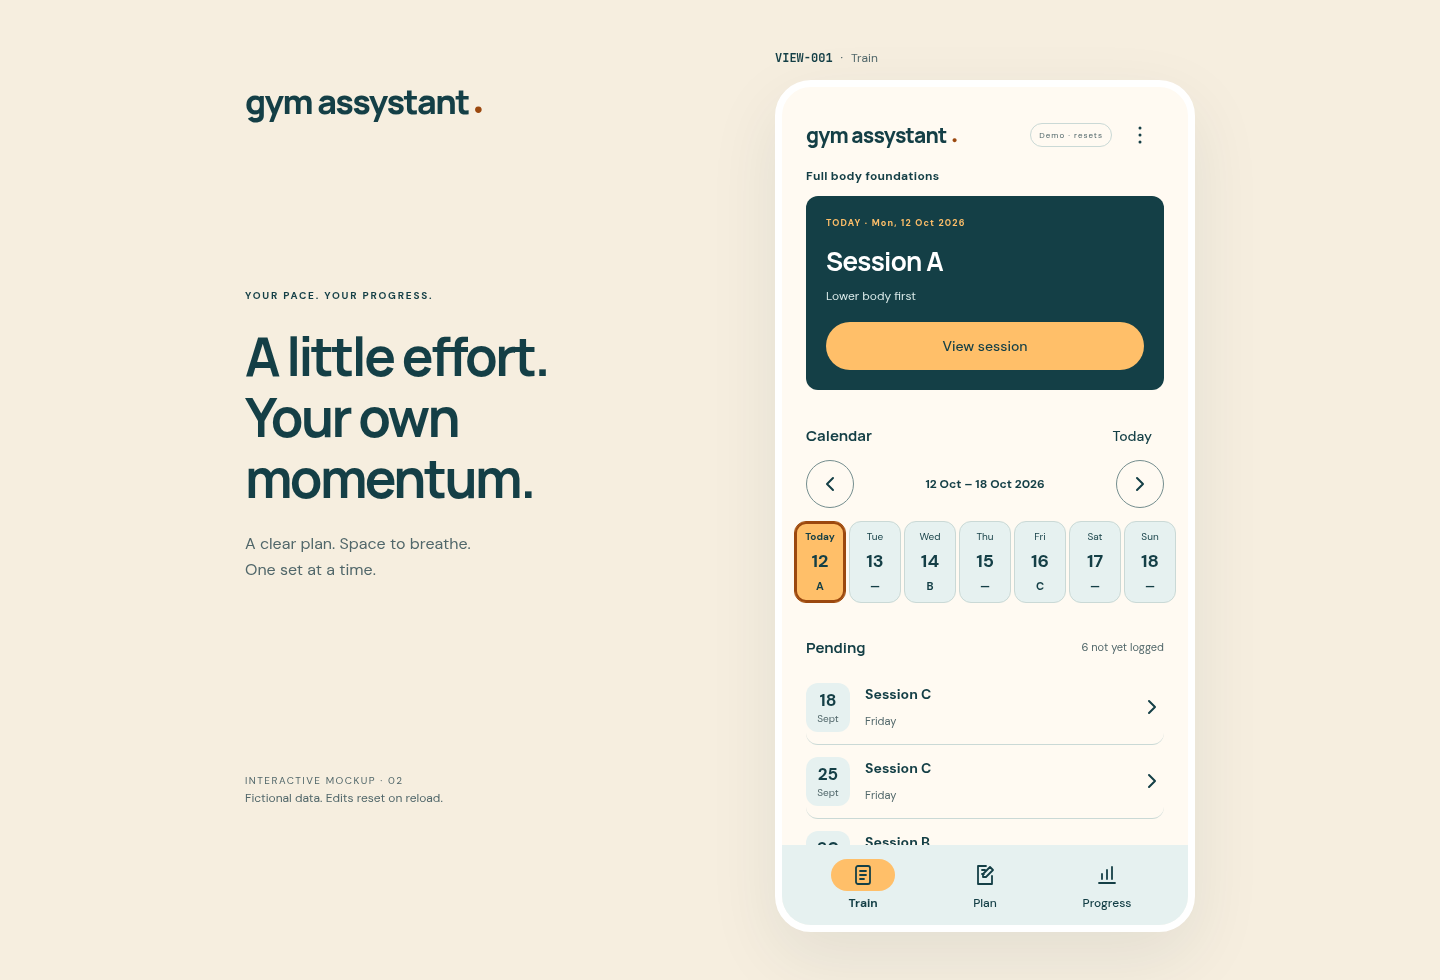
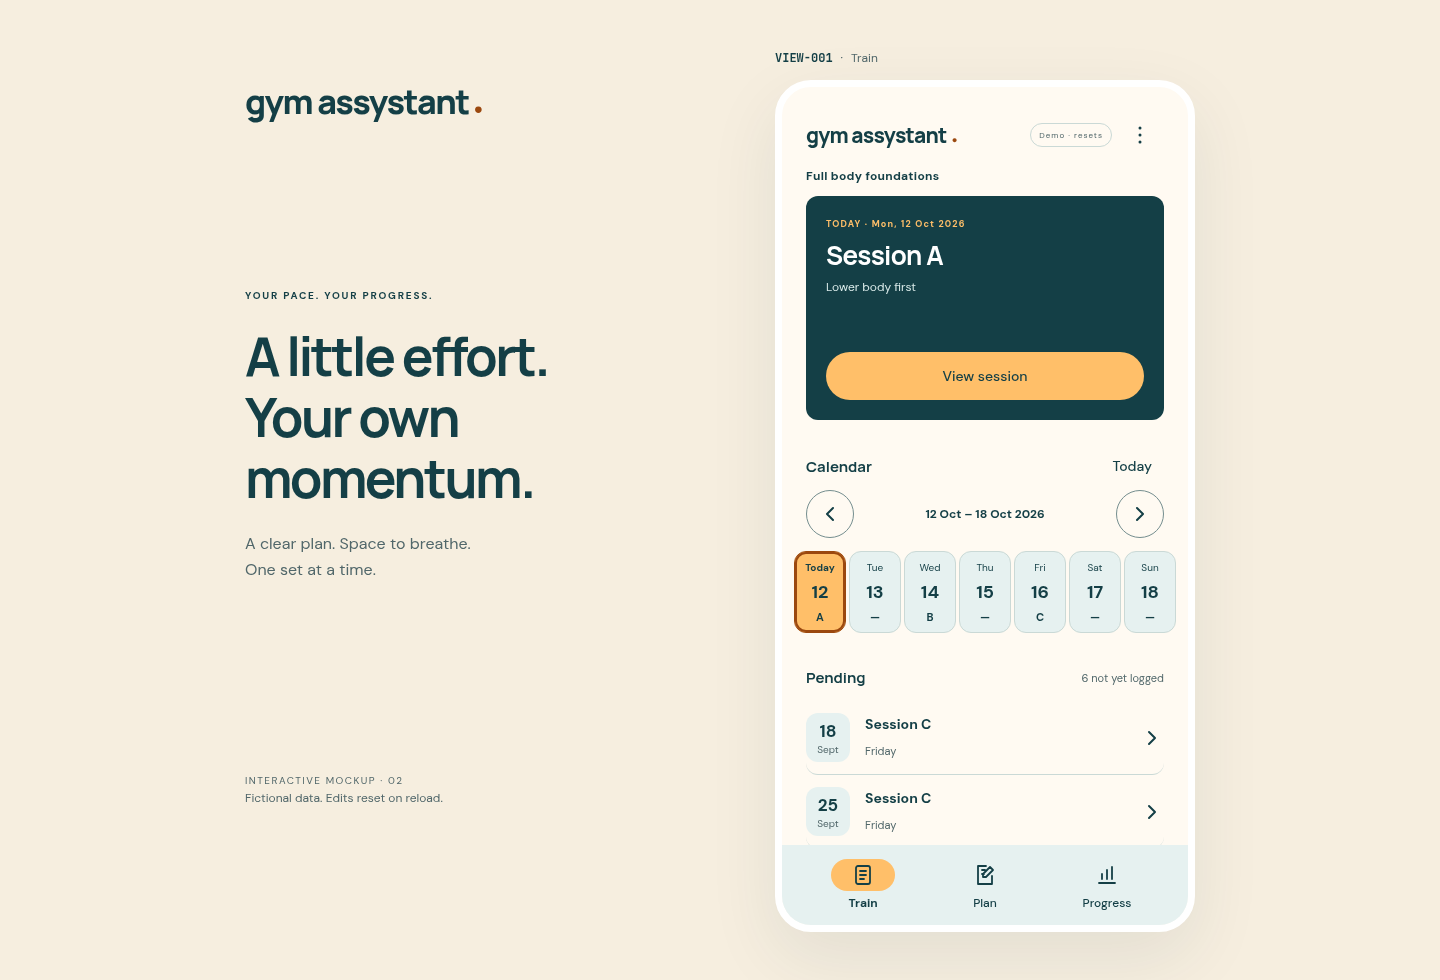
fix(mockup): keep the selected-day card dimensions stable
Reserve the session action row in VIEW-001 even on days without a workout.
Keep a fixed card height and responsive width so date selection does not
move the calendar. Clamp long names and focus text without changing their
accessible content or obscuring the session action.

Update specification revision 18, both traceability directions and the
affected light/dark, rest-day and desktop previews.

Validation: Chromium regression suite passes, including planned/empty/future
geometry comparisons and long-text containment across narrow/desktop
layouts and both themes. Visual review, 104 local documentation links and
staged whitespace checks pass.

Refs: GYM-016

Changed region(s): [[0.5312, 0.2143, 0.8438, 0.8878]]

diff --git a/prototypes/web/css/style.css b/prototypes/web/css/style.css
@@ -175,10 +175,12 @@ button { min-width: 48px; }
 input, select { min-height: 48px; }
 input::placeholder { color: var(--on-surface-variant); opacity: 1; }
 /* GYM-016: today's plan, selectable week, date assignment, and future agenda. */
-.session-card { position: relative; background: var(--primary); color: var(--on-primary); padding: 20px; border-radius: var(--shape-medium); margin-bottom: 22px; }
-.session-card .eyebrow { padding-right: 72px; color: var(--accent); font-size: 9px; letter-spacing: 1.2px; }
-.session-card h3 { font-size: 26px; letter-spacing: -.7px; }
-.session-card p:not(.eyebrow) { color: #d8e9e8; font-size: 12px; margin: 8px 0 16px; }
+/* GYM-016: the last grid row stays reserved even on days without a session. */
+.session-card { position: relative; display: grid; grid-template-rows: 16px auto minmax(0, 1fr) 48px; gap: 8px; height: 224px; background: var(--primary); color: var(--on-primary); padding: 20px; border-radius: var(--shape-medium); margin-bottom: 22px; }
+.session-card .eyebrow { margin: 0; color: var(--accent); font-size: 9px; line-height: 16px; letter-spacing: 1.2px; white-space: nowrap; overflow: hidden; text-overflow: ellipsis; }
+.session-card h3 { font-size: 26px; line-height: 30px; letter-spacing: -.7px; }
+.session-card p:not(.eyebrow) { min-height: 0; color: #d8e9e8; font-size: 12px; line-height: 18px; margin: 0; }
+.session-card h3, .session-card p:not(.eyebrow) { display: -webkit-box; -webkit-box-orient: vertical; -webkit-line-clamp: 2; overflow: hidden; overflow-wrap: anywhere; }
 .calendar-start, #startSession { width: 100%; }
 .calendar-heading { display: flex; align-items: center; justify-content: space-between; gap: 12px; }
 

diff --git a/docs/product/spec.md b/docs/product/spec.md
@@ -1,6 +1,6 @@
 # gym assystant — draft specification
 
-Status: revision 17, for exploration. Only a disposable browser mockup is authorized. Android implementation starts after the user decides the scope. Mockup coverage does not mean a production requirement is implemented.
+Status: revision 18, for exploration. Only a disposable browser mockup is authorized. Android implementation starts after the user decides the scope. Mockup coverage does not mean a production requirement is implemented.
 
 ## Purpose
 
@@ -25,7 +25,7 @@ Follow a training program made of multiple training sessions. During each sessio
 | GYM-013 | Use an inviting, evidence-informed brand. | Retain the exact name gym assystant. Use the promise “Your pace. Your progress.”, clear next actions, personal progress feedback, and neutral language for rest or unfinished sets. Apply the sunrise-amber, deep-teal, and ivory palette, wordmark, and tone documented in branding-research.md. Warm accents emphasize action, calmer teal surfaces support logging/recovery, and text/control contrast remains readable. No shame, body-transformation promises, streak pressure, or unsupported claims that colors increase exercise adherence. |
 | GYM-014 | Track warm-up reps alongside working sets. | Add/remove warm-up sets; edit nonnegative whole-number reps and nonnegative finite kg; mark each done/undone. Show warm-up and working sets together in one list, with a visible type label on every row. Keep their data distinct, retain them when navigating, and exclude warm-ups from working-set completion, records, and all GYM-010 metrics. |
 | GYM-015 | Follow Android Material 3 UI conventions. | Use shared Material button styles by emphasis: filled for workout opening, Start/Resume/Finish, timer Start/Pause/Resume, and Save; filled tonal for Plan Add actions; outlined for Pause and for Finish while Paused; text for the inline warm-up action, Today, Reset, and secondary video access. Use standard circular icon Back controls on secondary screens. Use circular icon buttons with consistent 24-pixel SVG icons and accessible action labels for week navigation, 48px exercise drag handles, template removal, and set completion (selected fill plus pressed state). Labels are centered, sentence case, and 14 pixels with medium weight; regular actions have consistent padding and full rounding. Hover/pressed/focus/disabled states are visible, and disabled controls remain inactive. Use joined segmented selectors with a check icon and tonal selected fill, rounded cards and dialog, an icon-and-label bottom navigation bar with a selected indicator, and at least 48 × 48 CSS-pixel touch areas for standard controls in the phone mockup. Calendar date cells adapt their width to fit seven columns, retaining at least 48 pixels of height. Keep navigation outside the scrolling content. Real Android delivery must use dp and native Material components. Document official guidance in android-ui.md. |
-| GYM-016 | Schedule sessions and browse dated workouts. | Train initially selects today. Selecting a calendar date updates the existing top card with that date, its session (or “No session planned”), and an action opening that dated workout; no popup opens. Previous/next week and Today update the same card. All seven Monday–Sunday dates fit in one row without horizontal scrolling. Upcoming-session taps select that date in the same card. Weekly assignments and individual-date overrides are edited in Plan, not in the execution card. The sample starts with A on Monday, B on Wednesday, C on Friday. Dated logs stay isolated. Future dates say “Preview session”; today/past dates say “View session”. Reload resets edits. |
+| GYM-016 | Schedule sessions and browse dated workouts. | Train initially selects today. Selecting a calendar date updates the existing top card with that date, its session (or “No session planned”), and an action opening that dated workout; no popup opens. At a given viewport, the card keeps the same width and fixed height on training days and empty days, so the calendar never shifts when a date is selected. Reserve the action area even when there is no session, without adding a dummy or disabled button. Long names and focus text are limited to two visible lines with full text retained for accessibility; content and the action must stay inside the card. Previous/next week and Today update the same card. All seven Monday–Sunday dates fit in one row without horizontal scrolling. Upcoming-session taps select that date in the same card. Weekly assignments and individual-date overrides are edited in Plan, not in the execution card. The sample starts with A on Monday, B on Wednesday, C on Friday. Dated logs stay isolated. Future dates say “Preview session”; today/past dates say “View session”. Reload resets edits. |
 | GYM-017 | Start, pause, resume, and finish a session. | Each dated session has Ready, In progress, Paused, or Finished state. Start session changes Ready to In progress; Resume session changes Paused to In progress. Both open the first exercise with unfinished working sets in the chosen order, or the first exercise for review if all sets are logged. Pause session changes In progress to Paused, pausing both timers for every exercise and retaining sets, warm-ups, seat notes, and order. Finish session is available from In progress or Paused, pauses all timers, records an in-memory finish timestamp, and changes to Finished. Pause/Finish are accessible from session and exercise screens while applicable. Finishing is allowed with fewer sets or no logged sets and never marks remaining sets done or creates attendance. Logging all sets does not automatically finish the session. Finished has no Start/Resume transition; its state and total set count are each displayed once. Its logs and targets are readable, while edits, set toggles, warm-up changes, exercise order, and timer running/reset/duration changes are disabled with unavailable action controls hidden; timer-mode selection remains available for reviewing elapsed times. Paused sessions cannot start timers until Resume; Resume does not restart timers automatically. Navigation does not alter lifecycle. Future workouts retain preview context and cannot record real attendance. Lifecycle is isolated by date; reload resets it. Attendance remains separate under GYM-020; persistent history and reopening finished sessions are deferred. |
 | GYM-018 | Manage a training plan separately from execution. | Plan opens a library of named programs; selecting one edits its name; 1–7 named session templates with optional focus descriptions; catalog exercises with add/remove/reorder; working-set counts (1–10) and rep ranges (1–50, min ≤ max); assignments for each weekday; and optional today/future date assignments or “Use weekly pattern”. Edits are drafts until Save plan validates and applies them. Session templates require at least one exercise. Plan contains prescriptions and schedule controls, not completed sets, actual weights/reps, timers, or lifecycle actions. Train contains dated execution. In progress, Paused, or Finished sessions and sessions with recorded entries or an adjusted execution order retain a copy of their original prescription; newly opened untouched previews use the saved plan. Removing a template clears its weekly/date assignments but retains existing execution records and access to them. State resets on reload. Each planned exercise includes Recovery (s), a required whole number from 1 to 3600, default 90. It remains a draft until Save and follows existing validation, plan isolation and dated snapshot rules. |
 | GYM-019 | Reorder exercises within a dated workout when machines are busy. | The Train session list offers a 48px drag handle for each exercise, including before Start and while In progress or Paused. Replace sorting arrows with mouse/touch drag-and-drop and a visible insertion position. Dragging starts only from the handle so normal scrolling, selection and form editing remain intact. Autoscroll inside the phone content near its edges; release commits the new position, while Escape or pointer cancellation retains the original order. Keyboard users focus the same handle and press ArrowUp/ArrowDown to move one place; attempts beyond list boundaries do nothing. Finished sessions have no reorder handles. Reordering changes only this dated occurrence, never its reusable plan or another date. Exercise identity, prescribed targets, working/warm-up sets, completion, seat notes, and both timers remain attached to the same exercise; running timers continue. The current exercise selection is preserved. Start/Resume chooses the first exercise with unfinished working sets in the chosen order. The adjusted order survives navigation, Pause/Resume, and plan saves, including a reordered Ready preview; reload resets it. Accessible labels identify the exercise, keyboard instructions accompany the handle, and an announcement confirms its new position. Use the same drag-handle interaction for reusable exercise prescriptions in Plan, where the result remains a draft until Save; retain expanded/collapsed editing state and field values during reordering. |
@@ -113,6 +113,8 @@ Manual stopwatch and countdown controls are mockup choices, pending exploration.
 ## GYM-016: calendar assumptions
 
 Today follows the browser/device local date. The week starts Monday. Civil-date calculations preserve calendar dates across daylight-saving changes and month/year boundaries. The weekly sample is an exploration assumption, not a recommended training frequency. Saving a date assignment in Plan changes only that date; there is no drag/drop, automatic rescheduling, scheduling notification, or integration with an external calendar.
+
+VIEW-001 uses a fixed-height selected-day card with responsive width. Its date, title, description and reserved action area keep the card and calendar position stable for today, future sessions and days without a session. The mockup uses 224 CSS pixels of card height and keeps the real session action at least 48px tall.
 
 The week is a seven-column grid with all dates visible. On narrow previews, date cells may be less than 48 CSS pixels wide to satisfy the requested fit; they retain generous height and never overlap. Standard controls keep their existing touch targets. The agenda considers future dates strictly after today and shows up to three planned occurrences within the next 28 days. If there are none, show a clear empty state. Past plans are not declared completed; scheduling and actual performance are different concepts. Finishing working sets does not persist history or automatically reschedule the plan. Attendance is recorded in memory under GYM-020 without changing the GYM-017 lifecycle or treating Start as attendance.
 

diff --git a/docs/product/traceability.md b/docs/product/traceability.md
@@ -1,8 +1,8 @@
 # Bidirectional traceability
 
-Revision 17. All Android delivery is **not started**. “Covered” below means the disposable mockup meets the acceptance criteria in [spec.md](spec.md), not that the Android product is implemented. Search a requirement ID in source comments or `data-req` attributes to trace code back to scope.
+Revision 18. All Android delivery is **not started**. “Covered” below means the disposable mockup meets the acceptance criteria in [spec.md](spec.md), not that the Android product is implemented. Search a requirement ID in source comments or `data-req` attributes to trace code back to scope.
 
-Revision 17 refines existing mockup requirements with external view references, planned recovery, drag-handle sorting and deliberate plan changes. The reference strip is mockup presentation only; native delivery remains not started.
+Revision 18 fixes the selected-day card dimensions in VIEW-001 under GYM-016; browser checks verify stable card/calendar geometry across states. Revision 17 introduced external view references, planned recovery, drag-handle sorting and deliberate plan changes. The reference strip is mockup presentation only; native delivery remains not started.
 
 | Requirement | Source anchors / artifact | Verification | Mockup state |
 | --- | --- | --- | --- |
@@ -21,7 +21,7 @@ Revision 17 refines existing mockup requirements with external view references, 
 | GYM-013 | [branding-research.md](../research/branding-research.md); wordmarks/copy in `index.html`, theme in `style.css`, timer copy in `app.js` | Five exercise/motivation sources plus three color/emotion sources; screenshot/copy and color-contrast review | Brand direction delivered and applied |
 | GYM-014 | `app.js`: `setRow`, `renderSets`, add/remove/update/toggle warmups; CSS: labeled warm-up rows; `metrics.js`: exclusion | Browser: shared list, labels, retained reps/weight, add/remove, count isolation; logic: warmups excluded | Covered |
 | GYM-015 | [android-ui.md](../design/android-ui.md); CSS: `.md-button`, emphasis variants, `.md-icon-button`, `.md-segment`, state layers, target/nav rules; `index.html`: button families, segmented checks, bottom nav; `app.js`: `buttonIcon`, generated actions, `showView` | Official Android button/icon/segmented/accessibility sources; screenshot review: emphasis, consistent labels/icons, selected checks, state layers; browser: navigation stays at bottom, interactive targets ≥48px | Material-style browser approximation; native UI deferred |
-| GYM-016 | `calendar.js`: `today`, `week`, `plan`, `upcoming`; `data.js`: sample schedule; `app.js`: `renderCalendar`, `getSession`, date/open handlers; `index.html`: `sessionCard`, week/agenda; `app.js`: Plan scheduling controls | Logic: civil dates, week boundaries, one-date overrides, upcoming/empty state; browser: date taps update the top card without a popup; all seven dates fit; separate Plan assignments and isolated dated logs | Calendar covered; schedule editing in GYM-018; persistence deferred |
+| GYM-016 | `calendar.js`: `today`, `week`, `plan`, `upcoming`; `data.js`: sample schedule; `app.js`: `renderCalendar`, `getSession`, date/open handlers; `index.html`: `sessionCard`, week/agenda; CSS: `.session-card` fixed-height grid and clamped text; `app.js`: Plan scheduling controls | Logic: civil dates, week boundaries, one-date overrides, upcoming/empty state; browser: date taps update the top card without a popup; fixed card dimensions and stable calendar position on planned/empty days, long name/focus containment and 48px action in both themes; all seven dates fit; separate Plan assignments and isolated dated logs | Calendar covered; schedule editing in GYM-018; persistence deferred |
 | GYM-017 | `session.js`: labels, legal transitions, all-exercise timer pause, finish timestamp; `app.js`: `renderSession`, `renderExercise`, Start/Resume, Pause/Finish handlers, finished editing guards; `index.html`: lifecycle actions; `plan.js`: finished order guard | Logic: transition matrix, retained logs/timers, partial terminal Finish; browser: Start/Pause/Resume/Finish on both views, all timers paused, readonly finished logs, no automatic set completion/finish/attendance, reopen retains Finished, reload reset | Covered in mockup; persistent history/reopening finished workouts deferred |
 | GYM-018 | `plan.js`: `validate`, `apply`, `removeSession`, `openOccurrence`; `data.js`: prescribed templates; `app.js`: `renderPlan`, `renderTemplate`, `savePlan`, draft/schedule handlers, `plannedForDate`; `sorting.js`: pointer/touch/keyboard draft ordering; `index.html`: Plan/Plan session views and Plan navigation | Logic/browser: recovery prescription validation, explicit Edit, read-only browsing and Save, CRUD/drag reordering, schedule assignments, stable IDs, new/untouched previews reflect saves, recorded sessions survive edits/removal | Covered in mockup; multiple plans in GYM-026; persistence deferred |
 | GYM-019 | `plan.js`: `reorderExercise`, `locked`; `app.js`: `renderSession`, occurrence sorting callback, Start/Resume selection; `sorting.js`: pointer capture, cancellation/autoscroll and keyboard support; `index.html`: execution-order help/status; CSS: `.workout-order-controls` | Logic/browser: data identity and running timer retention, plan/date isolation, mouse/touch drop, Escape/pointer cancellation, autoscroll, keyboard boundaries and finished guards, adjusted Ready snapshots survive reopening/plan saves, Start/Resume follow order, 320/390/430px targets | Covered in mockup; persistence deferred |
@@ -49,7 +49,7 @@ JavaScript filenames above are under `prototypes/web/js/`; `index.html` is under
 | Wordmark, promise, copy, palette and typography | GYM-007, GYM-013 |
 | Responsive shell, phone-bounded modal surfaces/scrims, resize/scroll alignment, keyboard focus/dismissal and external mockup view references | GYM-006 |
 | Shared button families, SVG icons, state layers, selected segment checks, bottom navigation, shape tokens, target dimensions | GYM-008, GYM-010, GYM-015 |
-| Selected-date card, fitted week, Plan date assignment and upcoming agenda; per-date session/timer state | GYM-016 |
+| Fixed selected-date card and reserved action space, fitted week, Plan date assignment and upcoming agenda; per-date session/timer state | GYM-016 |
 | Session Ready/In progress/Paused/Finished states, Start/Pause/Resume/Finish actions, terminal log review | GYM-017 |
 | Plan drafts, session/exercise CRUD and order, working-set/rep prescriptions, weekly/date assignments, immutable execution copies | GYM-018 |
 | Workout/draft exercise drag handles, pointer/touch cancellation/autoscroll, keyboard ordering and retained exercise identity | GYM-018, GYM-019, GYM-015 |
@@ -105,3 +105,5 @@ Revision 15, 2026-10-13: updated GYM-022 before adding Español to the language 
 Revision 16, 2026-10-13: updated GYM-006 before moving both dialogs into the phone and adding `dialogs.js`. Native modal shells now provide a clipped phone-sized scrim, centered/scrollable cards and position updates on resize/page/visual-viewport changes; the page-wide backdrop is transparent. Preserved Escape, button/backdrop close and trigger focus, and added Tab wrapping. Chromium regression checks passed for desktop/mobile containment, 16px card margins, actual page scrolling, short-height internal scrolling, focus and existing functionality. Reviewed the new phone/desktop/dark dialog screenshots. No Android implementation was added.
 
 Revision 17, 2026-10-13: specified the external view references, per-exercise planned recovery, drag-handle sorting and deliberate plan changes before their mockup code. All 32 logic checks and the Chromium suite passed. Verified all 12 unique references through actual navigation and popup dismissal, external placement at 320/390/430px and desktop, language/theme/reload stability, and no reference data in backups. Verified required planned recovery bounds, draft/save behavior, legacy 90-second defaults, read-only countdown targets, protected original durations and running timers, refreshed untouched previews, and standard Python recovery of targets/timers plus all 59 CSV rows. Verified mouse/touch drops, Escape and interrupted-touch cancellation, autoscroll, keyboard boundaries, retained expanded cards/fields, plan/date/log/timer isolation and finished guards. Verified saved-plan previews require Edit, Save returns to read-only, new plans remain explicitly editable, and named activation confirmation/cancel/Escape respects existing drafts and workouts; dialogs retain native focus and short-height/desktop bounds. Reviewed 67 light/dark screen/state captures with no undersized standard controls, then visually inspected and refreshed all 34 current committed previews. Two historical before images moved to `docs/reviews/history/` with repaired links. No Android implementation was added.
+
+Revision 18, 2026-10-13: updated GYM-016 before applying a 224px selected-day card with responsive width and a reserved 48px action row. The Chromium suite passed with equal planned/rest/future card dimensions and calendar positions at 320/360/390/430px, plus long saved names/focus, action containment, no horizontal overflow and light/dark checks at 320/390/430px and desktop. Full accessible text is retained; empty days still have no action. Refreshed and visually reviewed the light/dark training and empty-day previews and desktop Train. Documentation links and whitespace checks pass; data/timer logic and native Android delivery remain unchanged.

diff --git a/docs/reviews/interface-review.md b/docs/reviews/interface-review.md
@@ -101,4 +101,10 @@ Saved programs open in a [read-only plan preview](previews/plan.png) and [read-o
 
 Repeated the walkthrough across 67 light/dark page/state captures, including narrow templates/settings and desktop dialog presentations. The browser suite passed for the actual drag gestures, keyboard ordering, cancellations, autoscroll, preserved logs/timers/drafts, recovery validation and snapshot boundaries, read-only/explicit editing, activation confirmation, all view references and existing workflows. No standard interactive target measured below 48px; the fitted calendar keeps its documented exception.
 
-All 34 images under `previews/` were freshly captured from this design and visually inspected in five galleries. Their reference strips, drag handles, planned recovery targets, three bottom destinations, themes and popup bounds match the current mockup. Historical before images remain under `history/`, outside the current-preview collection. Earlier narrative records describe their original revisions, while linked current previews show revision 17. Android implementation remains not started.
+All 34 images under `previews/` were freshly captured from this design and visually inspected in five galleries. Their reference strips, drag handles, planned recovery targets, three bottom destinations, themes and popup bounds match the current mockup. Historical before images remain under `history/`, outside the current-preview collection. This record describes revision 17; later reviews refresh affected linked previews. Android implementation remains not started.
+
+## Revision 18: fixed selected-day card in VIEW-001
+
+The selected-day card keeps a 224px height and responsive width on training days and days without a session. Its grid reserves the real action's 48px row even when the empty state has no button. Selecting dates no longer moves the calendar. Names and focus text can occupy two visible lines, with full text retained in the DOM for accessibility, without pushing the action out of the card.
+
+Refreshed and visually compared [a training day](previews/program.png), [a day without a session](previews/program-rest-day.png), their [dark training](previews/program-dark.png)/[dark empty](previews/program-rest-day-dark.png) states and the [desktop layout](previews/desktop.png). The browser checks compare card dimensions and calendar position across states and verify long saved names/focus, action containment, both themes and 320/390/430px/desktop layouts. No placeholder action or new behavior was added to empty days.
